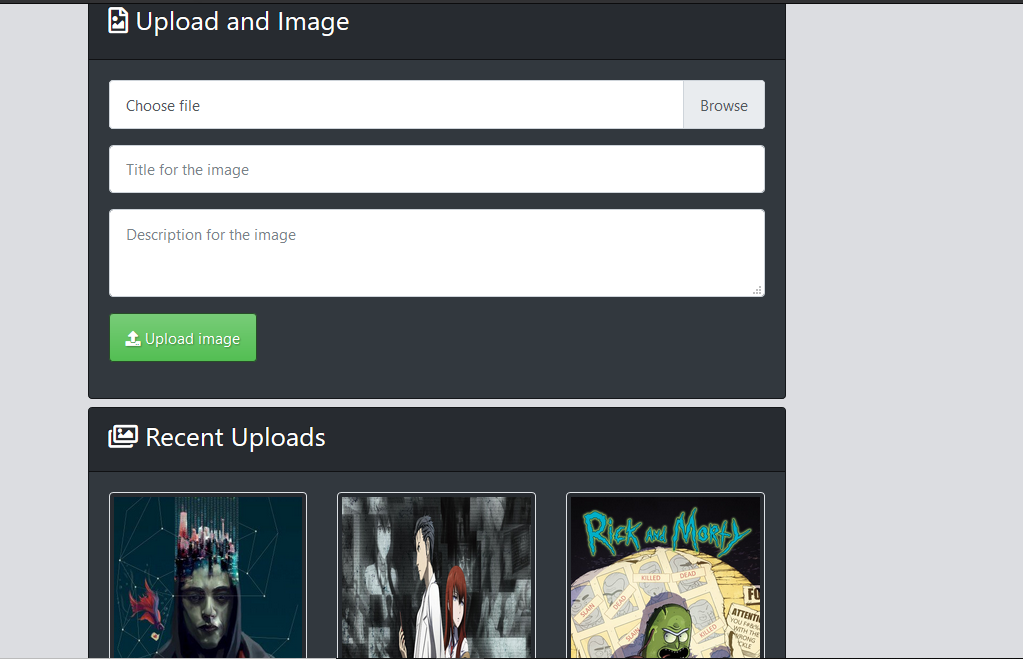
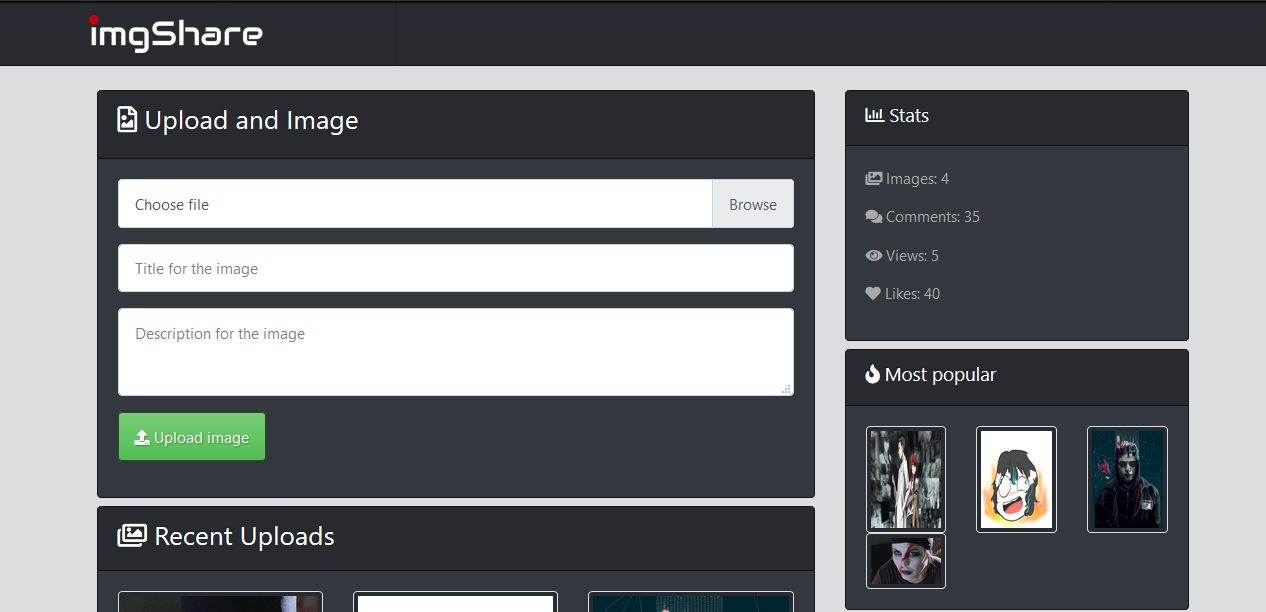
Last commit

diff --git a/src/controllers/image.js b/src/controllers/image.js
@@ -4,11 +4,12 @@ const fs = require('fs-extra');
 const md5 = require('md5');
 
 const { Image, Comment } = require('../models');
+const sidebar = require('../helpers/sidebar');
 
 const ctrl = {};
 
 ctrl.index = async (req, res) => {
-    const viewModel = {image: {}, comments: {}};
+    let viewModel = {image: {}, comments: {}};
 
     const image = await Image.findOne({filename: {$regex: req.params.image_id}});
     if(image) {
@@ -18,6 +19,8 @@ ctrl.index = async (req, res) => {
 
         const comments = await Comment.find({image_id: image._id});
         viewModel.comments = comments;
+
+        viewModel = await sidebar(viewModel);
 
         console.log(image);
         res.render('image',  viewModel );

diff --git a/src/controllers/homre.js b/src/controllers/homre.js
@@ -2,9 +2,15 @@ const ctrl = {};
 
 const { Image } = require('../models')
 
+const sidebar = require('../helpers/sidebar');
+
 ctrl.index = async (req, res) => {
     const images = await Image.find().sort({timestamp: -1});
-    res.render('index', {images});
+    let viewModel = {images: []};
+    viewModel.images = images;
+
+    viewModel = await sidebar(viewModel);
+    res.render('index', viewModel);
 };
 
 module.exports = ctrl; 

diff --git a/src/helpers/comments.js b/src/helpers/comments.js
@@ -5,7 +5,7 @@ module.exports = {
         const comments = await Comment.find().limit(5).sort({timestamp: -1});
 
         for(const comment of comments) {
-            const image = Image.findOne({_id: comment.image_id});
+            const image = await Image.findOne({_id: comment.image_id});
             comment.image = image;
         }
 

diff --git a/src/models/comment.js b/src/models/comment.js
@@ -10,4 +10,12 @@ const CommentSchema = new Schema({
     timestamp: { type: Date, default: Date.now }
 });
 
+CommentSchema.virtual('image')
+    .set(function (image) {
+        this._image = image;
+    })
+    .get(function () {
+        return this._image
+    })
+
 module.exports = model('Comment', CommentSchema);

diff --git a/src/helpers/sidebar.js b/src/helpers/sidebar.js
@@ -2,7 +2,7 @@ const Stats = require('./stats');
 const Images = require('./images');
 const Comments = require('./comments');
 
-module.exports = async function(viewModel) {
+module.exports = async viewModel => {
     const result = await Promise.all([
         Stats(),
         Images.popular(),

diff --git a/README.md b/README.md
@@ -1,4 +1,23 @@
+# Nodejs and MongoDB
+
+# Frontend
+
+> Bootstrap
+
+> hbs
+
+> Fontawesome
+
+# Backend
+
+> nodejs - express - mongoose - morgan
+
+# DB
+
+> MongoDB
+
 ![](SC/1.PNG)
 ![](SC/2.PNG)
+![](SC/5.PNG)
 ![](SC/3.PNG)
 ![](SC/4.PNG)
